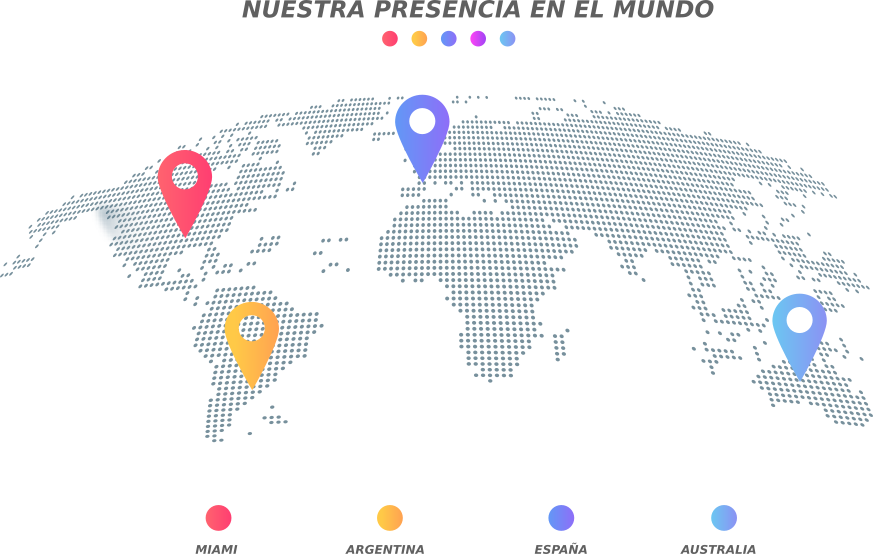
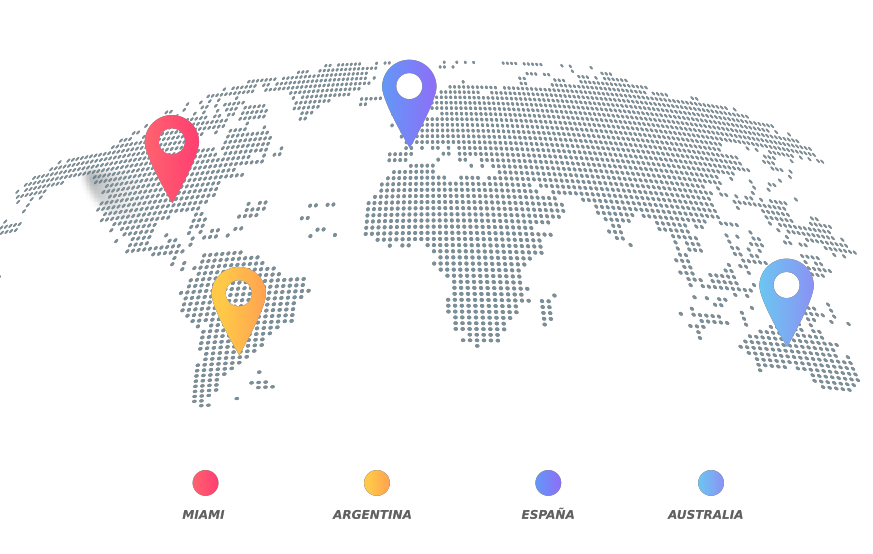
arreglos index

diff --git a/index.html b/index.html
@@ -47,7 +47,7 @@
         <a class="smooth-scroll" href="#Services">Servicios</a>
       </li>
       <li class="sidebar-nav-item">
-        <a class="smooth-scroll" href="#Portfolio">Portafolio</a>
+        <a class="smooth-scroll" href="#Customer">Nuestros Clientes</a>
       </li>
       <li class="sidebar-nav-item">
         <a class="smooth-scroll" href="#Contact">Contacto</a>
@@ -84,8 +84,6 @@
 
     <div class="overlay"></div>
   </section>
-
-
 
   <!-- Header Ends -->
   <!-- About Us Starts -->
@@ -124,7 +122,7 @@
 
 
 
-      <div class="row">
+      <!-- <div class="row">
         <div class="col-lg-12">
           <div class="block-heading">
             <h2>¿Que hacemos?</h2>
@@ -136,7 +134,7 @@
             Conectamos
             con su público ideal, definimos su esencia y vendemos experiencias.</p>
 
-        </div>
+        </div> -->
 
         <div class="col-lg-12">
 
@@ -161,49 +159,20 @@
             <div class="service-icon yellow">
               <div class="front-content">
                 <i class="fa fa-flag" aria-hidden="true"></i>
-                <h3>Estrategia</h3>
+                <h3>Manejo de redes sociales para marcas y profesionales</h3>
               </div>
             </div>
             <div class="service-content">
-              <h3>Estrategia</h3>
-              <p>Desde el inicio, definimos qué, cómo y cuándo comunicar, como así también en dónde hacerlo.
-                Desarrollamos para cada cliente un Plan de Comunicación Online a medida. También desarrollamos
-                estrategias de marketing integrales y capacitaciones in- company.</p>
+              <h3>Redes Sociales</h3>
+              <p>Desarrollamos estrategias de marketing y contenido creativo para potenciar las marcas en las
+                redes sociales,
+                nos anticipamos a las necesidades de la audiencia y agregamos valor a la identidad de cada empresa.
+                Conectamos
+                con su público ideal, definimos su esencia y vendemos experiencias.</p>
             </div>
           </div>
         </div>
-        <div class="col-md-3 col-sm-6">
-          <div class="service-box" data-aos="fade-down">
-            <div class="service-icon orange">
-              <div class="front-content">
-                <i class="fa fa-pencil"></i>
-                <h3>Creatividad</h3>
-              </div>
-            </div>
-            <div class="service-content">
-              <h3>Creatividad</h3>
-              <p>Un think Tank listo para desarrollar conceptos únicos. Desarrollamos campañas Ad hoc abarcando todos
-                los aspectos creativos de pre- producción, producción y post- producción.</p>
-            </div>
-          </div>
-        </div>
-        <div class="col-md-3 col-sm-6">
-          <div class="service-box" data-aos="fade-up">
-            <div class="service-icon red">
-              <div class="front-content">
-                <i class="fa fa-camera" aria-hidden="true"></i>
-                <h3>Producción de contenido
-                </h3>
-              </div>
-            </div>
-            <div class="service-content">
-              <h3>Producción de contenido
-              </h3>
-              <p>Creatividad, dirección de arte, fotografía publicitaria, diseño multimedial y 3D, y producción de
-                video. El contenido adecuado para tu marca, para que puedas diferenciarte.</p>
-            </div>
-          </div>
-        </div>
+
         <div class="col-md-3 col-sm-6">
           <div class="service-box" data-aos="fade-up">
             <div class="service-icon grey">
@@ -219,11 +188,43 @@
             </div>
           </div>
         </div>
+
+        <div class="col-md-3 col-sm-6">
+          <div class="service-box" data-aos="fade-down">
+            <div class="service-icon orange">
+              <div class="front-content">
+                <i class="fa fa-pencil"></i>
+                <h3>Cursos y asesorías personalizadas</h3>
+              </div>
+            </div>
+            <div class="service-content">
+              <h3>Cursos y asesorías personalizadas</h3>
+              <p>Dictamos talleres y cursos para emprendedores, para community Managers freelance y asesorías personalizadas a medida.</p>
+            </div>
+          </div>
+        </div>
+        <div class="col-md-3 col-sm-6">
+          <div class="service-box" data-aos="fade-up">
+            <div class="service-icon red">
+              <div class="front-content">
+                <i class="fa fa-camera" aria-hidden="true"></i>
+                <h3>Creación de contenido
+                </h3>
+              </div>
+            </div>
+            <div class="service-content">
+              <h3>Creación de contenido</h3>
+              <p>Creamos contenido para tu marca combinando nuestras habilidades creativas con herramientas de edición en tendencia.</p>
+            </div>
+          </div>
+        </div>
+       
       </div>
     </div>
   </section>
 
   <section class="content-section text-center" id="maps">
+    <h2>Nuestra presencia en el mundo</h2>
 
     <img src="./img/maps.png" alt="" class="map-img">
 
@@ -312,41 +313,83 @@
       <div class="row">
         <div class="col-sm-12">
           <div class="block-heading">
-            <h2 class="client">Nuestros clientes</h2>
+            <h2 class="client" id="Customer">Nuestros clientes</h2>
             <!-- <p>Lorem ipsum dolor sit amet, consectetur adipisicing elit.</p> -->
           </div>
           <div id="customers-testimonials" class="owl-carousel">
             <div class="item">
               <div class="shadow-effect">
-                <img class="img-circle" src="img/TODO CERDO.png" alt="">
+                <img class="img-circle" src="img/customers_logos/300499051_505002234764015_5841576075092815215_n.png" alt="">
                 <!-- <p>Lorem Ipsum is simply dummy text of the printing and typesetting industry. Lorem Ipsum has been the industry's standard dummy text ever since the 1500s</p> -->
               </div>
               <!-- <div class="testimonial-name">Sarah Jenks</div> -->
             </div>
             <div class="item">
               <div class="shadow-effect">
-                <img class="img-circle" src="img/TODO CERDO.png" alt="">
+                <img class="img-circle" src="img/customers_logos/300963640_599011015146387_243406366597775718_n (1).jpg" alt="">
                 <!-- <p>Contrary to popular belief, Lorem Ipsum is not simply random text. It has roots in a piece of classical Latin literature from 45 BC, making it over 2000 years old</p> -->
               </div>
               <!-- <div class="testimonial-name">Tangelia Ekhoff</div> -->
             </div>
             <div class="item">
               <div class="shadow-effect">
-                <img class="img-circle" src="img/TODO CERDO.png" alt="">
+                <img class="img-circle" src="img/customers_logos/atiza feed (2).png" alt="">
                 <!-- <p>There are many variations of passages of Lorem Ipsum available, but the majority have suffered alteration in some form, by injected humour, or randomised words which don't look even slightly believable. </p> -->
               </div>
               <!-- <div class="testimonial-name">John Doe</div> -->
             </div>
             <div class="item">
               <div class="shadow-effect">
-                <img class="img-circle" src="img/TODO CERDO.png" alt="">
+                <img class="img-circle" src="img/customers_logos/CALMATE (7).png" alt="">
                 <!-- <p>All the Lorem Ipsum generators on the Internet tend to repeat predefined chunks as necessary, making this the first true generator on the Internet. It uses a dictionary of over 200 Latin words</p> -->
               </div>
               <!-- <div class="testimonial-name">Amy Tan</div> -->
             </div>
             <div class="item">
               <div class="shadow-effect">
-                <img class="img-circle" src="img/TODO CERDO.png" alt="">
+                <img class="img-circle" src="img/customers_logos/descarga (8).png" alt="">
+                <!-- <p>Many desktop publishing packages and web page editors now use Lorem Ipsum as their default model text, and a search for 'lorem ipsum' will uncover many web sites still in their infancy.</p> -->
+              </div>
+              <!-- <div class="testimonial-name">Daniel Felsted</div> -->
+            </div>
+            <div class="item">
+              <div class="shadow-effect">
+                <img class="img-circle" src="img/customers_logos/Diseño sin título (7).png" alt="">
+                <!-- <p>Many desktop publishing packages and web page editors now use Lorem Ipsum as their default model text, and a search for 'lorem ipsum' will uncover many web sites still in their infancy.</p> -->
+              </div>
+              <!-- <div class="testimonial-name">Daniel Felsted</div> -->
+            </div>
+            <div class="item">
+              <div class="shadow-effect">
+                <img class="img-circle" src="img/customers_logos/DRA. ALE.png" alt="">
+                <!-- <p>Many desktop publishing packages and web page editors now use Lorem Ipsum as their default model text, and a search for 'lorem ipsum' will uncover many web sites still in their infancy.</p> -->
+              </div>
+              <!-- <div class="testimonial-name">Daniel Felsted</div> -->
+            </div>
+            <div class="item">
+              <div class="shadow-effect">
+                <img class="img-circle" src="img/customers_logos/LOGO-KAVAK-PhotoRoom.png" alt="">
+                <!-- <p>Many desktop publishing packages and web page editors now use Lorem Ipsum as their default model text, and a search for 'lorem ipsum' will uncover many web sites still in their infancy.</p> -->
+              </div>
+              <!-- <div class="testimonial-name">Daniel Felsted</div> -->
+            </div>
+            <div class="item">
+              <div class="shadow-effect">
+                <img class="img-circle" src="img/customers_logos/Malua LOGOS-27.png" alt="">
+                <!-- <p>Many desktop publishing packages and web page editors now use Lorem Ipsum as their default model text, and a search for 'lorem ipsum' will uncover many web sites still in their infancy.</p> -->
+              </div>
+              <!-- <div class="testimonial-name">Daniel Felsted</div> -->
+            </div>
+            <div class="item">
+              <div class="shadow-effect">
+                <img class="img-circle" src="img/customers_logos/paula-cahen-danvers (1).jpg" alt="">
+                <!-- <p>Many desktop publishing packages and web page editors now use Lorem Ipsum as their default model text, and a search for 'lorem ipsum' will uncover many web sites still in their infancy.</p> -->
+              </div>
+              <!-- <div class="testimonial-name">Daniel Felsted</div> -->
+            </div>
+            <div class="item">
+              <div class="shadow-effect">
+                <img class="img-circle" src="img/customers_logos/REYES (1).png" >
                 <!-- <p>Many desktop publishing packages and web page editors now use Lorem Ipsum as their default model text, and a search for 'lorem ipsum' will uncover many web sites still in their infancy.</p> -->
               </div>
               <!-- <div class="testimonial-name">Daniel Felsted</div> -->
@@ -369,15 +412,15 @@
               <h3 class="add-title">¿Como encontrarnos?</h3>
               <div class="c-detail">
                 <span class="c-icon"><i class="fa fa-map-marker" aria-hidden="true"></i></span><span
-                  class="c-info">&nbsp;35 Street - Cheyenne, CO 80810</span>
+                  class="c-info">&nbsp;San Miguel de Tucumán - Tucumán - Argentina</span>
               </div>
-              <div class="c-detail">
+              <!-- <div class="c-detail">
                 <span class="c-icon"><i class="fa fa-phone" aria-hidden="true"></i></span><span class="c-info">+123 4567
                   898</span>
-              </div>
+              </div> -->
               <div class="c-detail">
                 <span class="c-icon"><i class="fa fa-envelope" aria-hidden="true"></i></span><span
-                  class="c-info">email@yourdomain.com</span>
+                  class="c-info">contacto@sheagencia.com</span>
               </div>
             </div>
             <div class="address-block">
